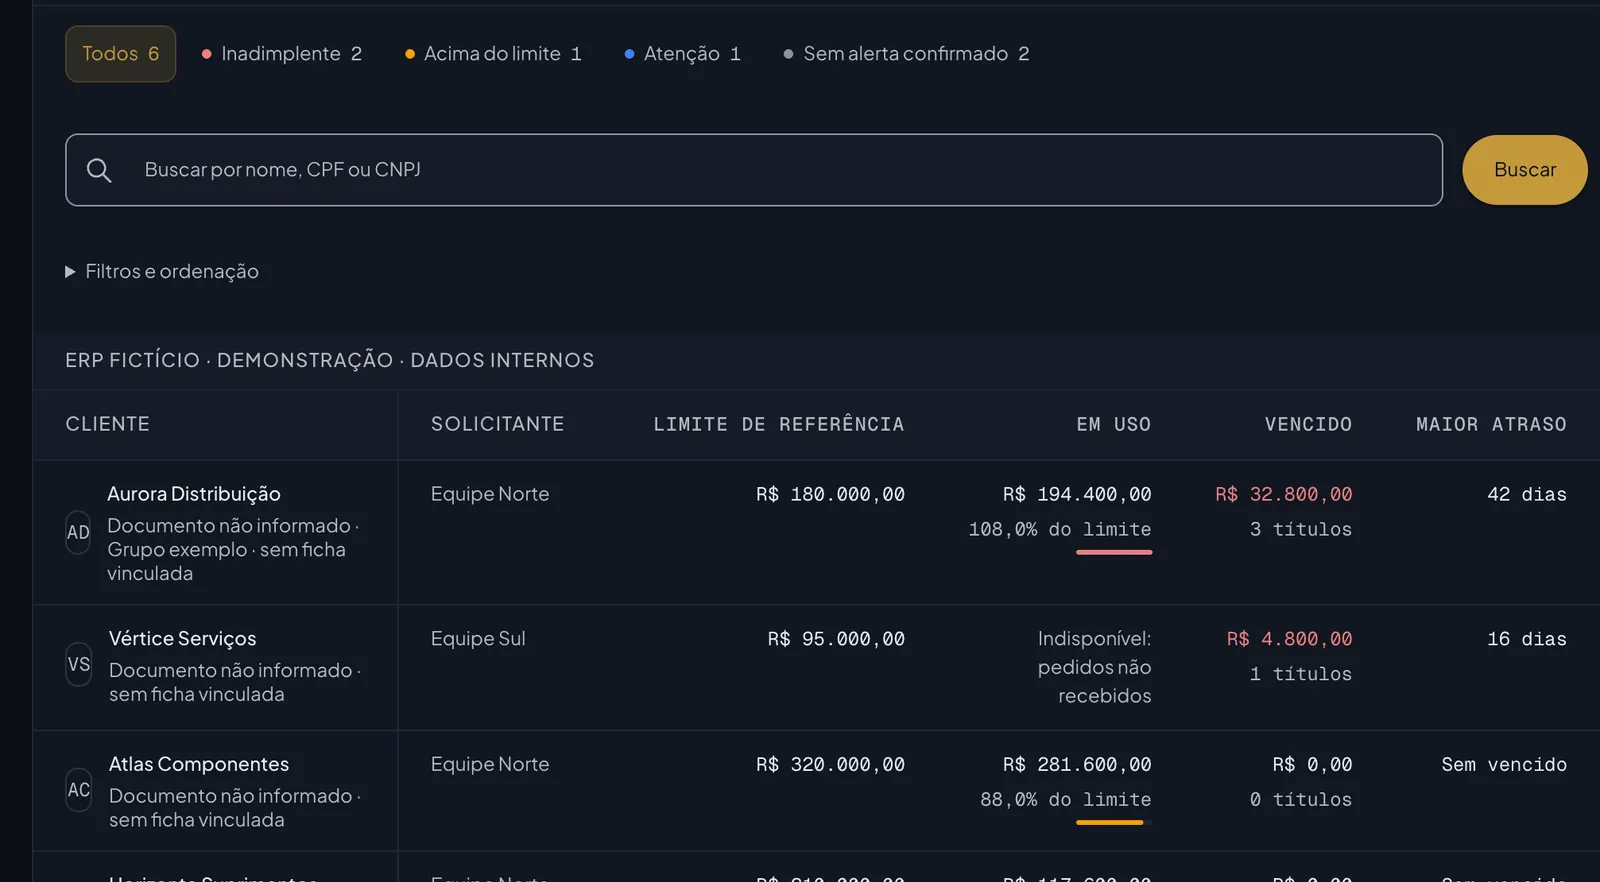
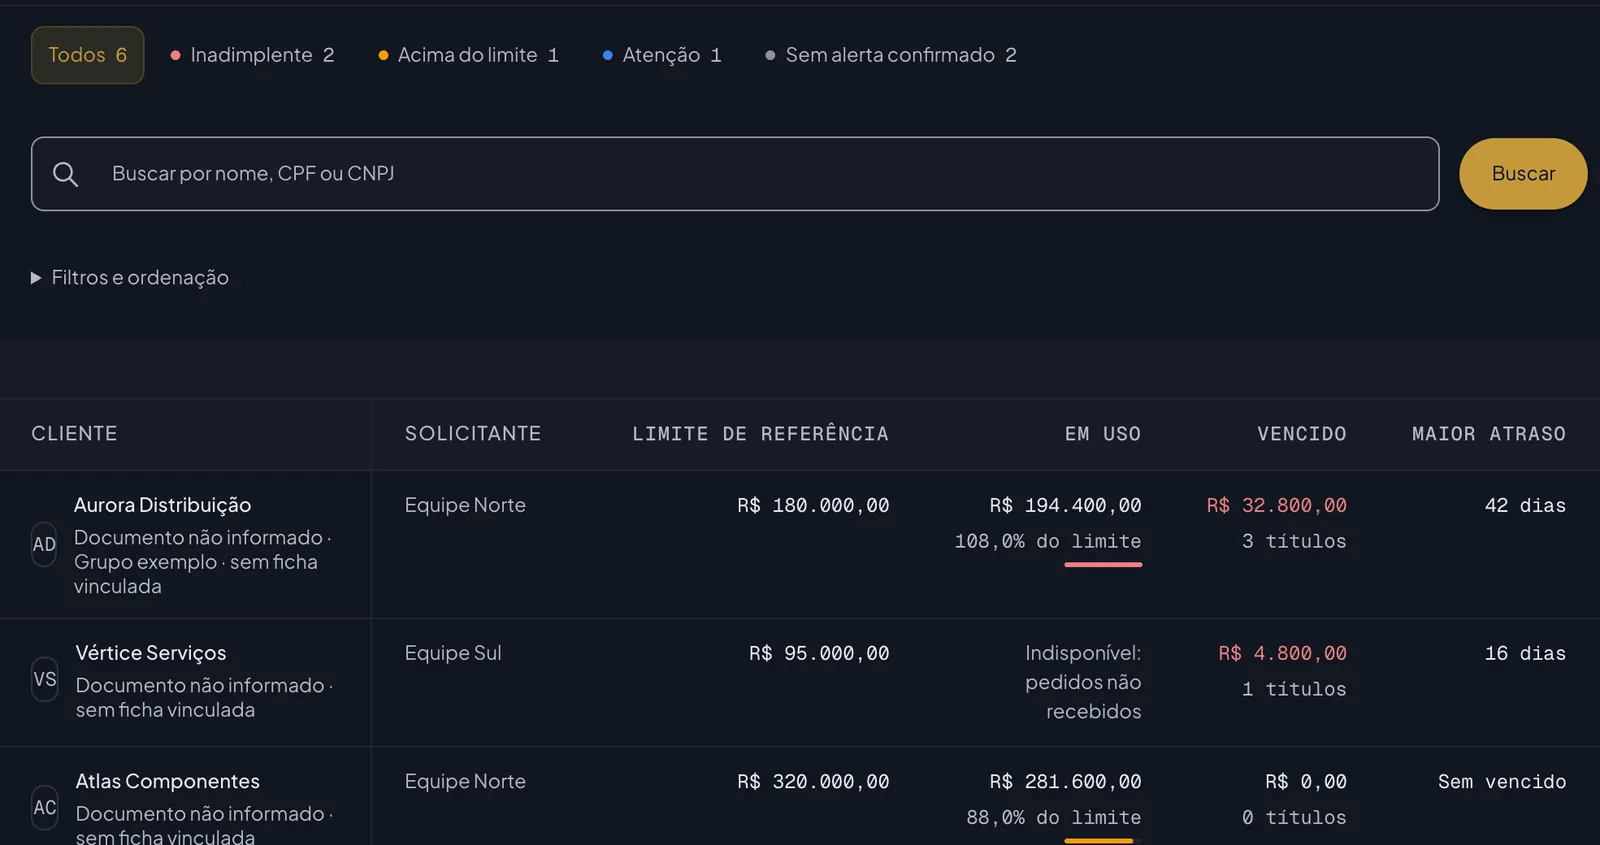
fix: ressalvas da revisão (telas do Xscore, hover, reveal antes da pintura, impressão)

diff --git a/src/styles/motion.css b/src/styles/motion.css
@@ -232,8 +232,10 @@
 }
 .screen-frame-img { inline-size: 100%; block-size: auto; }
 
-.product-feature .screen-front { transition: transform 600ms var(--spring-smooth), box-shadow 600ms var(--spring-smooth); }
-.product-feature:hover .screen-front { transform: translateY(-6px); }
+/* Hover usa a propriedade translate: o transform fica livre para a
+   inclinação ligada à rolagem (.screen-tilt), e os dois se somam. */
+.product-feature .screen-front { transition: translate 600ms var(--spring-smooth), box-shadow 600ms var(--spring-smooth); }
+.product-feature:hover .screen-front { translate: 0 -6px; }
 
 /* Parallax/inclinação ligada à rolagem, sem JS. */
 @supports (animation-timeline: view()) {
@@ -331,11 +333,19 @@
   .card-lift:focus-within,
   .card-lift:active,
   .card-lift:hover .icon-chip,
-  .method-step:hover .method-deliverable,
-  .product-feature:hover .screen-front { transform: none; }
+  .method-step:hover .method-deliverable { transform: none; }
+  .product-feature:hover .screen-front { translate: none; }
   .card-lift::after { transform: none; transition: opacity var(--lift-duration); }
   .card-lift,
   .card-lift .icon-chip,
   .method-deliverable,
   .product-feature .screen-front { transition-property: box-shadow, border-color, background-color, opacity; }
+}
+
+/* ── Impressão: tudo visível, sem estados intermediários ─────────────────── */
+@media print {
+  .js-reveal [data-reveal] { opacity: 1 !important; translate: none !important; }
+  .js-reveal .method-step::before,
+  .js-reveal .method-step::after { transform: none !important; }
+  .screen-tilt { animation: none !important; transform: none !important; }
 }

diff --git a/src/components/Demonstrations.tsx b/src/components/Demonstrations.tsx
@@ -13,8 +13,10 @@ import { revealIndex } from '../hooks/useReveal'
    Telas, todas com dados de demonstração e sem a barra lateral:
    - Electia: protótipos do DS (brands/electia/previews/prototypes, 05 e 06/10).
    - Xscore: rotas /styleguide/finance do app (fixtures fictícias, next dev
-     local sem .env, 08/10). Visão geral sem a barra superior (tinha um rótulo
-     interno); Carteira recortada até a coluna "Maior atraso". */
+     local sem .env, 08/10). Visão geral só com os indicadores, o gráfico e a lista (sem cabeçalho,
+     título nem rodapé, que falavam de crédito); Carteira até a coluna
+     "Maior atraso", com o rótulo interno da faixa da tabela coberto pela cor
+     da própria faixa. */
 
 interface Product {
   name: string
@@ -57,14 +59,14 @@ const PRODUCTS: Product[] = [
       {
         src: '/images/produtos/xscore-visao-geral.webp',
         width: 1600,
-        height: 1103,
+        height: 744,
         alt: 'Visão geral do Xscore: carteira a receber, total vencido, pontualidade em valor, clientes acima do limite, gráfico da evolução da carteira e lista de quem acompanhar, com dados de demonstração.',
         address: 'xscore · Visão geral',
       },
       {
         src: '/images/produtos/xscore-carteira.webp',
         width: 1600,
-        height: 882,
+        height: 845,
         alt: 'Carteira de clientes do Xscore: filtros por situação, busca e tabela com limite, valor em uso, vencido e maior atraso de empresas fictícias.',
         address: 'xscore · Carteira de clientes',
       },

diff --git a/src/hooks/useReveal.ts b/src/hooks/useReveal.ts
@@ -1,10 +1,12 @@
 import { useEffect, type CSSProperties } from 'react'
 
 /* Revelação ao rolar, por melhoria progressiva.
-   O CSS só esconde [data-reveal] quando <html> tem a classe .js-reveal, e é
-   este hook que a coloca, depois de confirmar que há IntersectionObserver e
-   que a pessoa não pediu movimento reduzido. Sem JS, sem suporte ou com
-   movimento reduzido, todo o conteúdo fica visível e parado.
+   O CSS só esconde [data-reveal] quando <html> tem a classe .js-reveal.
+   Quem a liga primeiro é o script inline do <head> (index.html), antes da
+   primeira pintura, com as MESMAS condições daqui: há IntersectionObserver e
+   a pessoa não pediu movimento reduzido. O hook confirma (liga de novo, sem
+   efeito) ou desliga se as condições falharem, e observa a rolagem.
+   Sem suporte ou com movimento reduzido, tudo fica visível e parado.
    Só opacity e translate mudam: nada empurra o layout (sem CLS). */
 
 const REVEAL_SELECTOR = '[data-reveal]'
@@ -18,9 +20,12 @@ export function useReveal(): void {
   useEffect(() => {
     const canAnimate =
       'IntersectionObserver' in window && !window.matchMedia(REDUCED_MOTION_QUERY).matches
-    if (!canAnimate) return
-
     const root = document.documentElement
+    if (!canAnimate) {
+      root.classList.remove(ENABLED_CLASS)
+      return
+    }
+
     const targets = Array.from(document.querySelectorAll<HTMLElement>(REVEAL_SELECTOR))
 
     const observer = new IntersectionObserver(

diff --git a/index.html b/index.html
@@ -25,6 +25,19 @@
     <meta name="twitter:description" content="Sua empresa pode produzir mais com menos trabalho manual. Comece com um diagnóstico gratuito dos seus desafios e das oportunidades de melhoria." />
     <meta name="twitter:image" content="https://resultx.app/images/og-resultx.png" />
     <meta name="twitter:image:alt" content="ResultX — Implementação de IA e melhoria de processos" />
+    <!-- Revelação ao rolar (src/hooks/useReveal.ts): liga .js-reveal antes da
+         primeira pintura, nas mesmas condições do hook, para o conteúdo não
+         piscar visível e depois sumir. O conteúdo é renderizado pelo mesmo
+         bundle que observa a rolagem, então não há caso de texto escondido. -->
+    <script>
+      (function (root) {
+        try {
+          if ("IntersectionObserver" in window && !window.matchMedia("(prefers-reduced-motion: reduce)").matches) {
+            root.classList.add("js-reveal");
+          }
+        } catch (e) {}
+      })(document.documentElement);
+    </script>
     <link rel="preconnect" href="https://fonts.googleapis.com" />
     <link rel="preconnect" href="https://fonts.gstatic.com" crossorigin />
     <link href="https://fonts.googleapis.com/css2?family=Inter:wght@400;500;600;700&family=JetBrains+Mono:wght@500;600&family=Sora:wght@500;600;700&display=swap" rel="stylesheet" />

diff --git a/src/content/media.ts b/src/content/media.ts
@@ -26,8 +26,9 @@ export type AmbientSlot = 'hero' | 'servicos' | 'metodo' | 'diagnostico'
    O original tem 2752 × 1536 com a metade esquerda em grafite liso e uma
    emenda vertical no meio: o arquivo publicado é só a metade direita
    (recorte a partir de x = 1392), e o CSS funde a borda esquerda no fundo.
-   Opção A ativa; a opção B fica pronta em /images/ambiencia/hero-b*.webp —
-   para trocar, substitua "hero-a" por "hero-b" nos três caminhos abaixo. */
+   Opção A ativa. A opção B (alternativa) não é publicada: o original está no
+   scratch da sessão de 08/10 (hero/hero-b.png, 2752 × 1536). Para usá-la,
+   gere hero-b.webp e hero-b-800.webp com o mesmo recorte e troque os caminhos. */
 const HERO_A: AmbientImage = {
   src: '/images/ambiencia/hero-a.webp',
   width: 1360,
